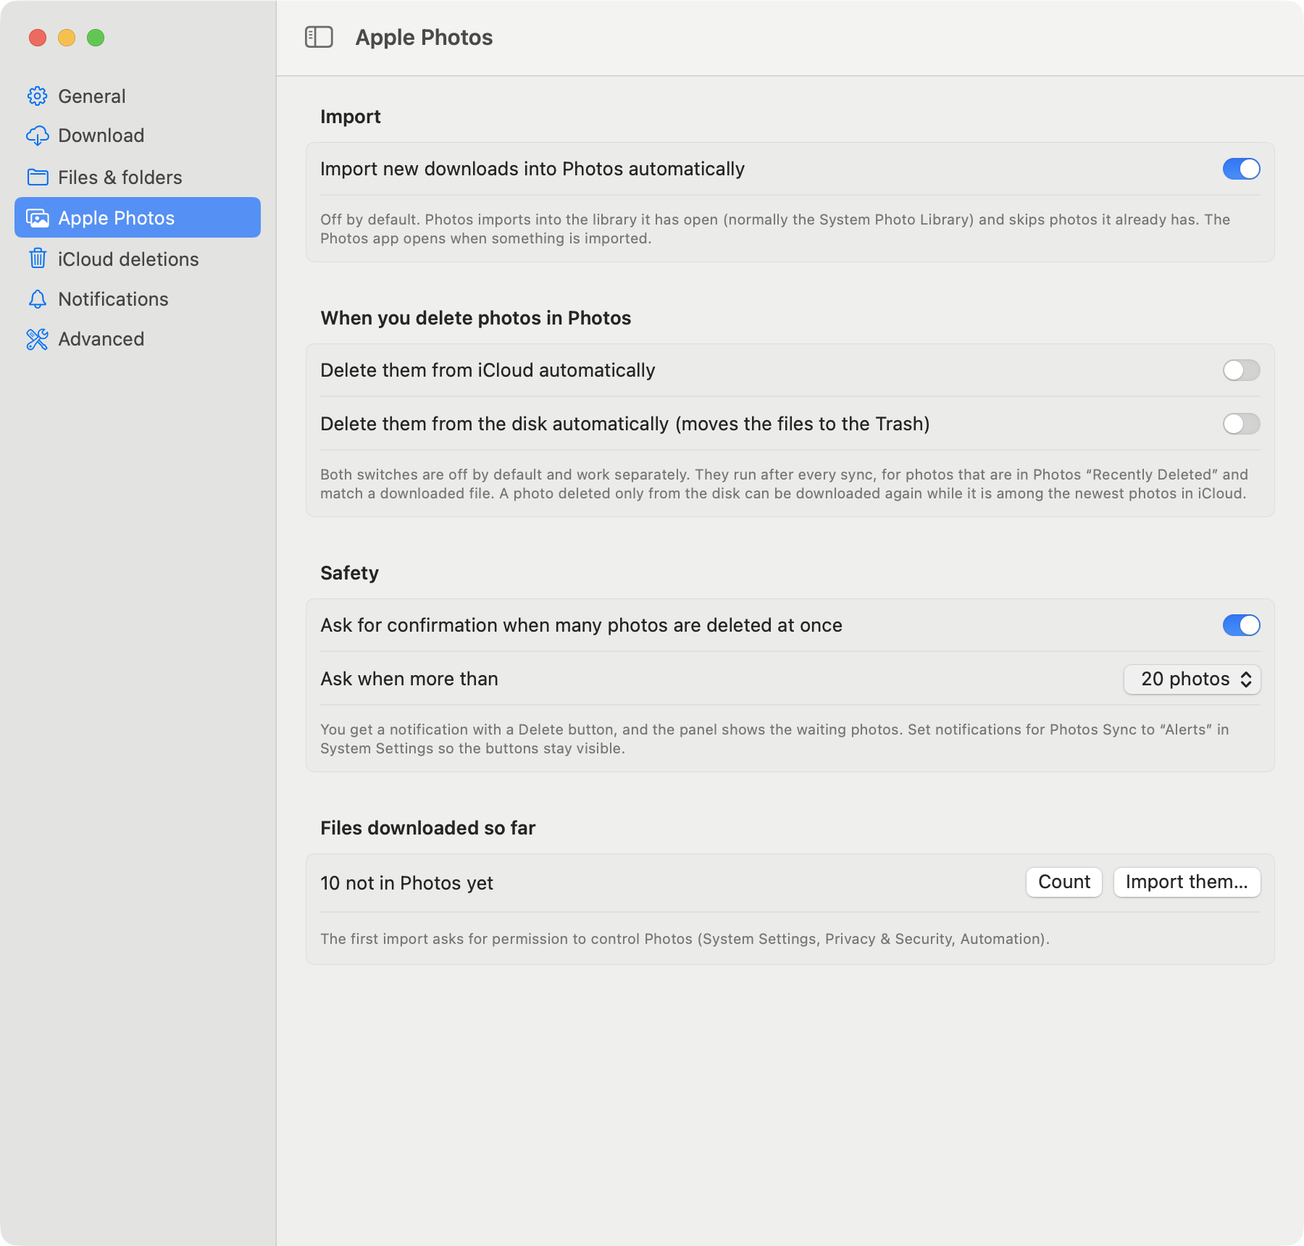
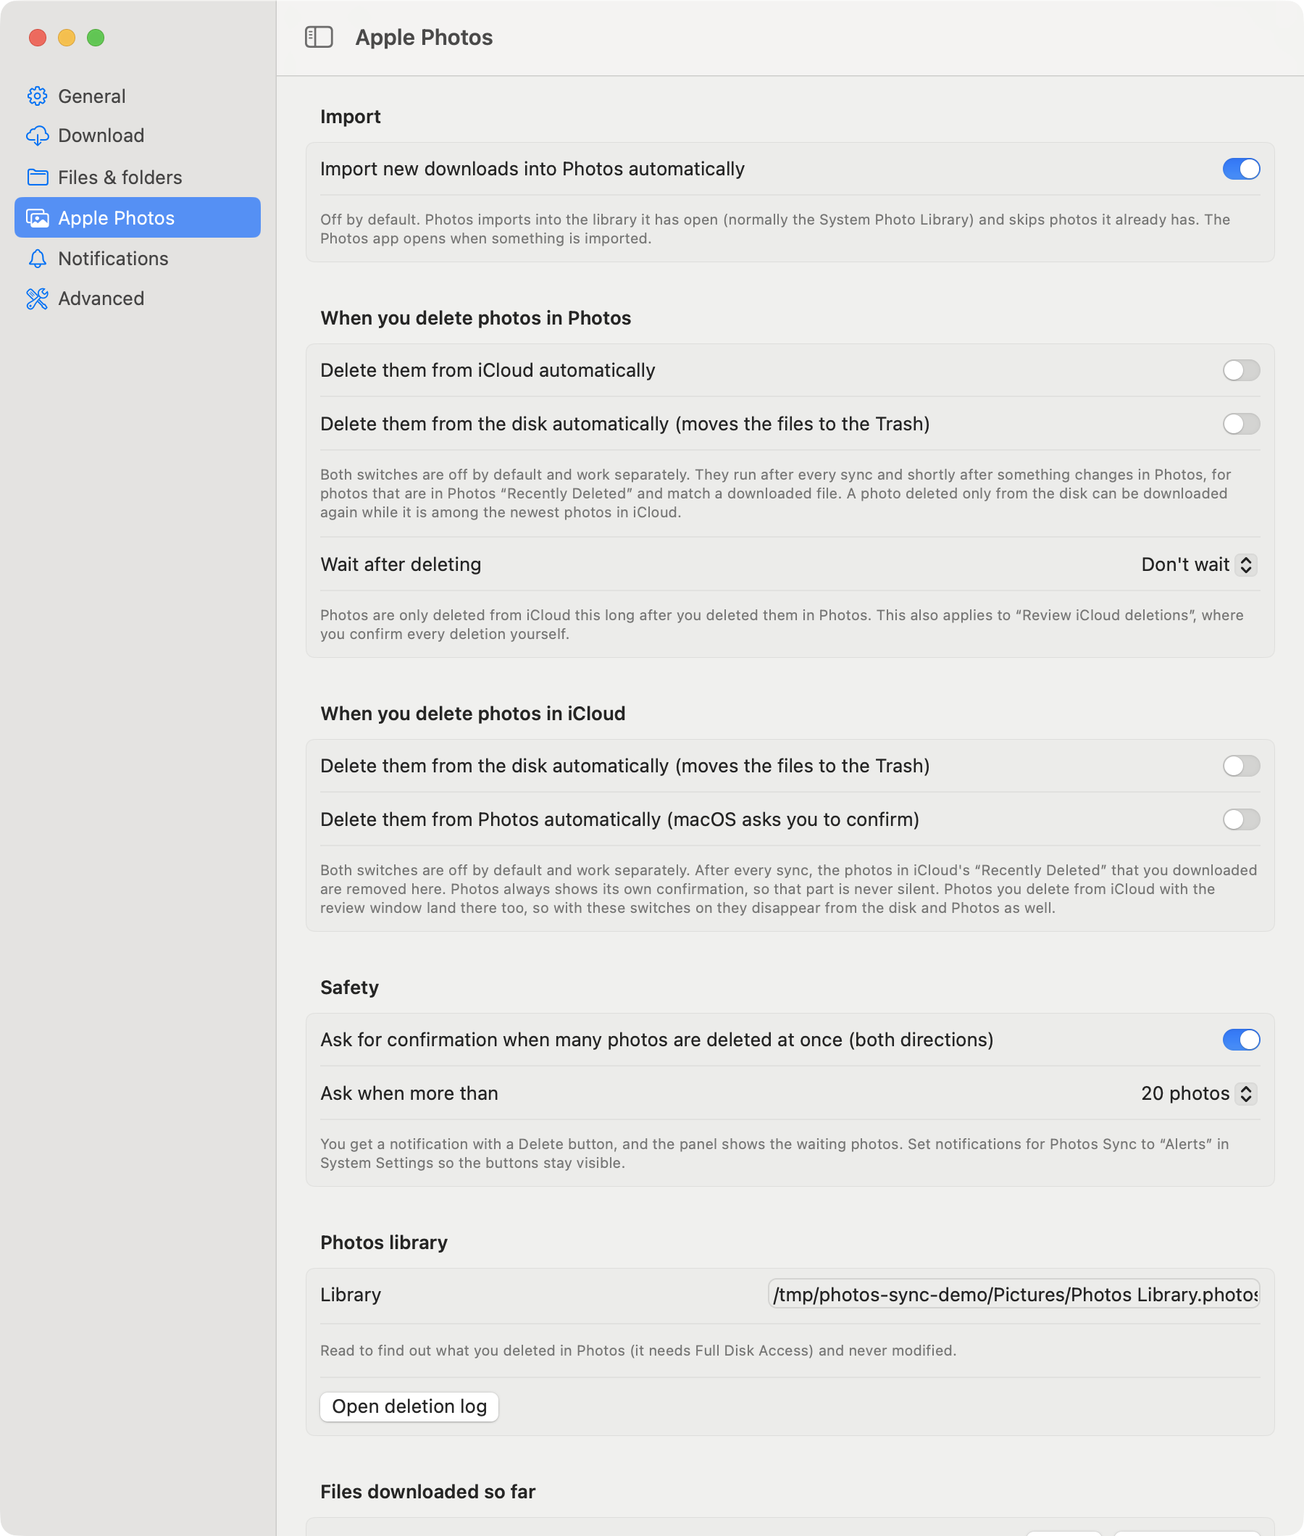
menubar_app: simpler settings, the app brings its own icloudpd, intervals from 5 seconds
- check interval: add 5 seconds and 1 minute (with a warning that short intervals hammer iCloud)
- Live Photo video name: by default the same as the photo, so that Photos pairs them
- Where from / Date range (and the other free-text settings) are bordered inputs with an example as the
  placeholder; empty bare fields looked like labels that cannot be edited
- "iCloud deletions" is merged into "Apple Photos"; the hard limit is gone because the confirmation limit
  already covers it
- the icloudpd sources are copied into the app when it is built, so no src folder has to be set; the Python
  of the installed icloudpd is detected, and the Advanced section only offers an override
- README and screenshots updated

diff --git a/menubar_app/Sources/MenuBarApp/SettingsView.swift b/menubar_app/Sources/MenuBarApp/SettingsView.swift
@@ -10,7 +10,6 @@ enum SettingsCategory: String, CaseIterable, Identifiable {
     case download = "Download"
     case files = "Files & folders"
     case photos = "Apple Photos"
-    case deletions = "iCloud deletions"
     case notifications = "Notifications"
     case advanced = "Advanced"
 
@@ -21,7 +20,6 @@ enum SettingsCategory: String, CaseIterable, Identifiable {
         case .download: return "icloud.and.arrow.down"
         case .files: return "folder"
         case .photos: return "photo.on.rectangle"
-        case .deletions: return "trash"
         case .notifications: return "bell"
         case .advanced: return "wrench.and.screwdriver"
         }
@@ -35,7 +33,7 @@ final class SettingsNav: ObservableObject {
     private static func initialSelection() -> SettingsCategory {
         let keys: [String: SettingsCategory] = [
             "general": .general, "download": .download, "files": .files, "photos": .photos,
-            "deletions": .deletions, "notifications": .notifications, "advanced": .advanced,
+            "deletions": .photos, "notifications": .notifications, "advanced": .advanced,
         ]
         let doc = DocMode.value
         guard doc.hasPrefix("settings:") else { return .general }
@@ -65,7 +63,6 @@ struct SettingsView: View {
                 case .download: DownloadPane()
                 case .files: FilesPane()
                 case .photos: PhotosPane()
-                case .deletions: DeletionsPane()
                 case .notifications: NotificationsPane()
                 case .advanced: AdvancedPane()
                 }
@@ -94,7 +91,26 @@ private struct IntPicker: View {
     }
 }
 
-private func minutes(_ seconds: Int) -> String { "\(seconds / 60) min" }
+private func minutes(_ seconds: Int) -> String {
+    seconds < 60 ? "\(seconds) seconds" : "\(seconds / 60) min"
+}
+
+/// A text input that looks like one: bordered, with an example as the placeholder. (A bare TextField in a
+/// grouped form shows nothing but its label while it is empty, so it looks as if it cannot be edited.)
+private struct LabeledField: View {
+    let title: String
+    @Binding var text: String
+    let prompt: String
+
+    var body: some View {
+        LabeledContent(title) {
+            TextField(title, text: $text, prompt: Text(prompt))
+                .textFieldStyle(.roundedBorder)
+                .labelsHidden()
+                .frame(maxWidth: 340)
+        }
+    }
+}
 
 // MARK: - Panes
 
@@ -109,7 +125,7 @@ private struct GeneralPane: View {
             AccountSection()
             Section("Sync") {
                 IntPicker(title: "Check iCloud every", value: $interval, options: [
-                    (300, "5 minutes"), (900, "15 minutes"), (1800, "30 minutes"), (3600, "1 hour"),
+                    (5, "5 seconds"), (60, "1 minute"), (300, "5 minutes"), (900, "15 minutes"), (1800, "30 minutes"), (3600, "1 hour"),
                     (7200, "2 hours"), (14_400, "4 hours"), (21_600, "6 hours"), (43_200, "12 hours"),
                     (86_400, "24 hours"),
                 ], custom: minutes)
@@ -118,6 +134,10 @@ private struct GeneralPane: View {
                     (200, "200 photos"), (500, "500 photos"), (1000, "1,000 photos"),
                     (0, "All photos (slow)"),
                 ], custom: { "\($0) photos" })
+                if interval < 300 {
+                    Text("Every check signs in to iCloud again. Very short intervals keep the app busy all the time, and Apple may start refusing connections.")
+                        .font(.caption).foregroundStyle(.orange)
+                }
                 Text("Only photos that are not downloaded yet are fetched, so after taking pictures use “Sync now”. Pick a number at least as high as the pictures you take between syncs. “All photos” downloads the whole library.")
                     .font(.caption).foregroundStyle(.secondary)
                 Toggle("Start syncing when the app opens", isOn: $startAtLaunch)
@@ -176,12 +196,12 @@ private struct DownloadPane: View {
                 }
             }
             Section("Where from") {
-                TextField("Albums (comma separated, empty = everything)", text: $albums)
-                TextField("Library (empty = primary)", text: $library)
+                LabeledField(title: "Albums", text: $albums, prompt: "All albums, or names separated by commas")
+                LabeledField(title: "Library", text: $library, prompt: "Primary library")
             }
             Section("Date range") {
-                TextField("Skip photos created before (2025-01-02 or 20d)", text: $before)
-                TextField("Skip photos created after (2025-01-02 or 20d)", text: $after)
+                LabeledField(title: "Skip photos before", text: $before, prompt: "2025-01-02, or 20d for 20 days ago")
+                LabeledField(title: "Skip photos after", text: $after, prompt: "2025-01-02, or 20d for 20 days ago")
             }
         }
         .formStyle(.grouped)
@@ -192,7 +212,7 @@ private struct FilesPane: View {
     @AppStorage(Prefs.directory) private var directory = ""
     @AppStorage(Prefs.folderStructure) private var folderStructure = "{:%Y/%m/%d}"
     @AppStorage(Prefs.fileMatchPolicy) private var matchPolicy = "name-size-dedup-with-suffix"
-    @AppStorage(Prefs.livePhotoMovPolicy) private var movPolicy = "suffix"
+    @AppStorage(Prefs.livePhotoMovPolicy) private var movPolicy = "original"
     @AppStorage(Prefs.alignRaw) private var alignRaw = "as-is"
     @AppStorage(Prefs.keepUnicode) private var keepUnicode = false
     @AppStorage(Prefs.xmpSidecar) private var xmpSidecar = false
@@ -202,7 +222,7 @@ private struct FilesPane: View {
         Form {
             Section("Folder") {
                 HStack {
-                    TextField("Download folder", text: $directory)
+                    LabeledField(title: "Download folder", text: $directory, prompt: "~/Pictures/iCloud")
                     Button("Choose…") { chooseFolder() }
                 }
                 Picker("Folder structure", selection: $folderStructure) {
@@ -218,8 +238,8 @@ private struct FilesPane: View {
                     Text("Name plus iCloud ID").tag("name-id7")
                 }
                 Picker("Live Photo video name", selection: $movPolicy) {
-                    Text("Add _HEVC suffix").tag("suffix")
                     Text("Same as photo (pairs in Photos)").tag("original")
+                    Text("Add _HEVC suffix").tag("suffix")
                 }
                 Picker("RAW + JPEG", selection: $alignRaw) {
                     Text("As is").tag("as-is")
@@ -260,6 +280,8 @@ private struct PhotosPane: View {
     @AppStorage(Prefs.confirmThreshold) private var threshold = 20
     @AppStorage(Prefs.mirrorDisk) private var mirrorDisk = false
     @AppStorage(Prefs.mirrorPhotos) private var mirrorPhotos = false
+    @AppStorage(Prefs.photosLibrary) private var photosLibrary = ""
+    @AppStorage(Prefs.minAgeDays) private var minAgeDays = 0.0
     @StateObject private var state = PhotosPaneState()
 
     var body: some View {
@@ -276,6 +298,13 @@ private struct PhotosPane: View {
                 Toggle("Delete them from iCloud automatically", isOn: $autoDeleteICloud)
                 Toggle("Delete them from the disk automatically (moves the files to the Trash)", isOn: $autoDeleteDisk)
                 Text("Both switches are off by default and work separately. They run after every sync and shortly after something changes in Photos, for photos that are in Photos “Recently Deleted” and match a downloaded file. A photo deleted only from the disk can be downloaded again while it is among the newest photos in iCloud.")
+                    .font(.caption).foregroundStyle(.secondary)
+                IntPicker(title: "Wait after deleting", value: Binding(
+                    get: { Int(minAgeDays) }, set: { minAgeDays = Double($0) }
+                ), options: [
+                    (0, "Don't wait"), (1, "1 day"), (3, "3 days"), (7, "7 days"), (14, "14 days"), (30, "30 days"),
+                ], custom: { "\($0) days" })
+                Text("Photos are only deleted from iCloud this long after you deleted them in Photos. This also applies to “Review iCloud deletions”, where you confirm every deletion yourself.")
                     .font(.caption).foregroundStyle(.secondary)
                 if !app.deletionStatus.isEmpty {
                     Text(app.deletionStatus).font(.callout).foregroundStyle(.secondary)
@@ -300,6 +329,12 @@ private struct PhotosPane: View {
                      ? "You get a notification with a Delete button, and the panel shows the waiting photos. Set notifications for Photos Sync to “Alerts” in System Settings so the buttons stay visible."
                      : "Confirmation is off: any number of photos is deleted without asking.")
                     .font(.caption).foregroundStyle(confirmLarge ? Color.secondary : Color.orange)
+            }
+            Section("Photos library") {
+                LabeledField(title: "Library", text: $photosLibrary, prompt: "~/Pictures/Photos Library.photoslibrary")
+                Text("Read to find out what you deleted in Photos (it needs Full Disk Access) and never modified.")
+                    .font(.caption).foregroundStyle(.secondary)
+                Button("Open deletion log") { NSWorkspace.shared.open(URL(fileURLWithPath: auditLogPath())) }
             }
             Section("Files downloaded so far") {
                 HStack {
@@ -326,42 +361,6 @@ private struct PhotosPane: View {
             Text("They are added to the library that Photos has open.")
         }
         .onAppear { state.pendingCount = app.notImportedFiles().count }
-    }
-}
-
-private struct DeletionsPane: View {
-    @AppStorage(Prefs.photosLibrary) private var photosLibrary = ""
-    @AppStorage(Prefs.minAgeDays) private var minAgeDays = 0.0
-    @AppStorage(Prefs.maxCandidates) private var maxCandidates = 10
-
-    var body: some View {
-        Form {
-            Section("Safeguards") {
-                Text("Photos you delete in the Photos app are offered for deletion from iCloud when they are still in “Recently Deleted” and match a downloaded file. In the review window you confirm every deletion yourself; automatic deletion is set under Apple Photos.")
-                    .font(.callout).foregroundStyle(.secondary)
-                IntPicker(title: "Offer photos deleted", value: Binding(
-                    get: { Int(minAgeDays) }, set: { minAgeDays = Double($0) }
-                ), options: [
-                    (0, "Immediately"), (1, "At least 1 day ago"), (3, "At least 3 days ago"),
-                    (7, "At least 7 days ago"), (14, "At least 14 days ago"), (30, "At least 30 days ago"),
-                ], custom: { "At least \($0) days ago" })
-                IntPicker(title: "Hard limit", value: $maxCandidates, options: [
-                    (10, "10 photos at once"), (25, "25 photos at once"), (50, "50 photos at once"),
-                    (100, "100 photos at once"), (250, "250 photos at once"), (1000, "1,000 photos at once"),
-                ], custom: { "\($0) photos at once" })
-                Text("The review window offers no more than this many photos. The confirmation limit under Apple Photos applies to automatic deletion.")
-                    .font(.caption).foregroundStyle(.secondary)
-            }
-            Section("Photos library") {
-                TextField("Library path", text: $photosLibrary)
-                Text("The app needs Full Disk Access to read it. The library is only read, never modified.")
-                    .font(.caption).foregroundStyle(.secondary)
-            }
-            Section {
-                Button("Open audit log") { NSWorkspace.shared.open(URL(fileURLWithPath: auditLogPath())) }
-            }
-        }
-        .formStyle(.grouped)
     }
 }
 
@@ -401,10 +400,14 @@ private struct AdvancedPane: View {
                     .font(.caption).foregroundStyle(.secondary)
             }
             Section("icloudpd") {
-                TextField("Python", text: $pythonPath)
-                TextField("icloudpd sources (src folder)", text: $sourcePath)
-                Text("The progress icon needs the repository version of icloudpd (it adds /api/status).")
-                    .font(.caption).foregroundStyle(.secondary)
+                Text(Prefs.bundledSource().isEmpty
+                     ? "This build has no icloudpd of its own. Set the folder with the icloudpd sources (the src folder of the repository) below."
+                     : "The app brings its own icloudpd (a version with the status API it needs) and uses the Python of your installed icloudpd. You normally do not need to change anything here.")
+                    .font(.callout).foregroundStyle(.secondary)
+                DisclosureGroup("Use another icloudpd") {
+                    LabeledField(title: "Python", text: $pythonPath, prompt: "Python that runs icloudpd")
+                    LabeledField(title: "icloudpd sources", text: $sourcePath, prompt: "Empty = the one bundled with the app")
+                }
             }
             Section("Logging") {
                 Picker("Log level", selection: $logLevel) {

diff --git a/menubar_app/Sources/MenuBarApp/Prefs.swift b/menubar_app/Sources/MenuBarApp/Prefs.swift
@@ -10,7 +10,6 @@ enum Prefs {
     static let sourcePath = "sourcePath"
     static let photosLibrary = "photosLibrary"
     static let minAgeDays = "minAgeDays"
-    static let maxCandidates = "maxCandidates"
     static let startWatchingAtLaunch = "startWatchingAtLaunch"
     // download
     static let size = "size"
@@ -46,6 +45,13 @@ enum Prefs {
     /// the Apple ID that was signed in successfully (no default)
     static let linkedAccount = "linkedAccount"
 
+    /// The icloudpd sources copied into the app when it was built; empty when this build has none.
+    static func bundledSource() -> String {
+        guard let url = Bundle.main.resourceURL?.appendingPathComponent("icloudpd-src"),
+              FileManager.default.fileExists(atPath: url.appendingPathComponent("icloudpd").path) else { return "" }
+        return url.path
+    }
+
     /// The Python that runs the installed `icloudpd` (read from its launcher script), or the system one.
     static func detectPython() -> String {
         let home = NSHomeDirectory()
@@ -66,17 +72,16 @@ enum Prefs {
             intervalSeconds: 3600,
             untilFound: 0,  // extra early stop after N known photos; 0 = off
             pythonPath: detectPython(),
-            sourcePath: "",  // empty: use the icloudpd that is installed for that Python
+            sourcePath: bundledSource(),  // the icloudpd that comes with the app
             photosLibrary: "\(home)/Pictures/Photos Library.photoslibrary",
             minAgeDays: 0,
-            maxCandidates: 100,  // hard limit; the confirmation threshold (20) is the everyday safeguard
             startWatchingAtLaunch: true,
             size: "original", livePhotoSize: "original",
             skipVideos: false, skipPhotos: false, skipLivePhotos: true, forceSize: false,
             recent: 20,  // each sync only looks at the N newest photos; 0 = whole library
             albums: "", library: "", skipCreatedBefore: "", skipCreatedAfter: "",
             folderStructure: "{:%Y/%m/%d}", fileMatchPolicy: "name-size-dedup-with-suffix",
-            livePhotoMovPolicy: "suffix", keepUnicode: false, alignRaw: "as-is",
+            livePhotoMovPolicy: "original", keepUnicode: false, alignRaw: "as-is",
             xmpSidecar: false, setExifDatetime: false,
             notifyOnInput: true, notifyOnError: true, logLevel: "info",
             autoImportToPhotos: false,
@@ -92,7 +97,7 @@ enum Prefs {
             libraryPath: d.string(forKey: photosLibrary) ?? "",
             stagingPath: d.string(forKey: directory) ?? "",
             minAgeDays: d.double(forKey: minAgeDays),
-            maxCandidates: d.integer(forKey: maxCandidates))
+            maxCandidates: 10_000)  // no extra hard limit: the review window asks for every deletion
     }
 }
 

diff --git a/menubar_app/Sources/MenuBarApp/Launcher.swift b/menubar_app/Sources/MenuBarApp/Launcher.swift
@@ -66,7 +66,7 @@ enum Launcher {
     static func watchArgs() -> [String] {
         let d = UserDefaults.standard
         var args = commonArgs() + downloadArgs() + [
-            "--watch-with-interval", "\(max(60, d.integer(forKey: Prefs.intervalSeconds)))",
+            "--watch-with-interval", "\(max(5, d.integer(forKey: Prefs.intervalSeconds)))",
             "--password-provider", "keyring", "--password-provider", "webui",
             "--mfa-provider", "webui", "--webui-host", "127.0.0.1",
         ]

diff --git a/menubar_app/README.md b/menubar_app/README.md
@@ -39,16 +39,15 @@ delete from iCloud (and the disk) the photos you delete in Photos.
 ## Requirements
 
 - macOS 13 or newer (developed and tested on macOS 26).
-- The **`icloudpd` of this repository**. The app talks to it through a small local API (`/api/status`,
-  `/api/activity`) and uses the options `--webui-host` and `--delete-list`, which are not in the upstream release yet.
-  With a plain upstream `icloudpd` the app does not start the sync.
+- An installed `icloudpd`, for example `brew install icloudpd`. The app uses its Python and its libraries, but runs the
+  **`icloudpd` of this repository**, which it carries inside (the `src` folder is copied into the app when it is built).
+  That version has the small local API (`/api/status`, `/api/activity`) and the options `--webui-host` and
+  `--delete-list`, which the upstream release does not have yet.
 - Swift command line tools to build the app (`xcode-select --install`). Full Xcode is not needed.
 
 ## Install
 
-1. Get `icloudpd` running from this repository. The app starts it with a Python of your choice and the `src` folder of
-   this checkout, so the simplest way is to install upstream `icloudpd` (for example with Homebrew, which brings all
-   dependencies) and point the app to the sources of this repository (step 3).
+1. Install `icloudpd` so that its Python and libraries are there (for example `brew install icloudpd`).
 2. Build and copy the app:
 
    ```bash
@@ -58,10 +57,8 @@ delete from iCloud (and the disk) the photos you delete in Photos.
    open "$HOME/Applications/Photos Sync.app"
    ```
 
-3. Open **Settings, Advanced** and set
-   - **Python**: the interpreter that runs `icloudpd`. It is detected from the `icloudpd` launcher (for example
-     Homebrew's), otherwise `/usr/bin/python3`.
-   - **icloudpd sources (src folder)**: the `src` folder of this repository.
+The app finds the Python of the installed `icloudpd` by itself. Only if you want another Python or another `icloudpd`
+is there **Settings, Advanced, Use another icloudpd**.
 
 The app is signed ad hoc, so macOS may ask again for the permissions below after you rebuild it.
 
@@ -114,13 +111,12 @@ Every option is passed to `icloudpd` only when it differs from its own default. 
 
 | Category | What you can set |
 |---|---|
-| **General** | Apple ID and link status; how often to check (5 min to 24 h); how many of the newest photos each sync looks at (10 to 1,000, or all); start syncing when the app opens; open at login |
+| **General** | Apple ID and link status; how often to check (5 seconds to 24 hours); how many of the newest photos each sync looks at (10 to 1,000, or all); start syncing when the app opens; open at login |
 | **Download** | photos, videos, Live Photos (Live Photos are **off** by default); photo size and Live Photo video size; albums; library; skip photos created before/after a date |
-| **Files & folders** | download folder; folder structure; how existing files are recognised (`name-size-dedup-with-suffix` or `name-id7`); Live Photo video name; RAW and JPEG handling; Unicode in names; XMP sidecars; EXIF date |
-| **Apple Photos** | [import](#import-into-photos); [automatic deletion](#deleting-what-you-deleted-in-photos) from iCloud and from the disk; the confirmation limit |
-| **iCloud deletions** | how long ago a photo must have been deleted before it is offered; a hard limit for the review window; the path of the Photos library |
+| **Files & folders** | download folder; folder structure; how existing files are recognised (`name-size-dedup-with-suffix` or `name-id7`); Live Photo video name (by default the same as the photo, so that Photos pairs them); RAW and JPEG handling; Unicode in names; XMP sidecars; EXIF date |
+| **Apple Photos** | [import](#import-into-photos); [deleting what you delete in Photos](#deleting-what-you-deleted-in-photos) (from iCloud and from the disk) and [what you delete in iCloud](#deleting-what-you-deleted-in-icloud) (from the disk and from Photos); how long to wait after deleting; the confirmation limit; the path of the Photos library |
 | **Notifications** | notify when a code or password is needed, and when syncing fails |
-| **Advanced** | extra early stop after N known photos in a row; Python and sources; log level |
+| **Advanced** | extra early stop after N known photos in a row; log level; another Python or `icloudpd` (normally nothing to change here) |
 
 <table>
 <tr>
@@ -129,11 +125,7 @@ Every option is passed to `icloudpd` only when it differs from its own default. 
 </tr>
 <tr>
 <td><img src="docs/images/settings-apple-photos.png" width="420" alt="Apple Photos"></td>
-<td><img src="docs/images/settings-deletions.png" width="420" alt="iCloud deletions"></td>
-</tr>
-<tr>
 <td><img src="docs/images/settings-advanced.png" width="420" alt="Advanced"></td>
-<td></td>
 </tr>
 </table>
 
@@ -177,8 +169,7 @@ confirm. You get a notification with *Delete* and *Not now* buttons, and the pan
 The limit can be switched off with the parent switch *Ask for confirmation when many photos are deleted at once*; then any
 number is deleted without asking. Further safeguards:
 
-- an optional minimum age (deleted at least N days ago);
-- a hard limit for the review window (default 100);
+- an optional wait (deleted at least N days ago);
 - if the iCloud deletion fails, the files on the disk are kept;
 - every dry run and deletion is appended to `~/Library/Logs/icloudpd-menubar/deletions.log`.
 
